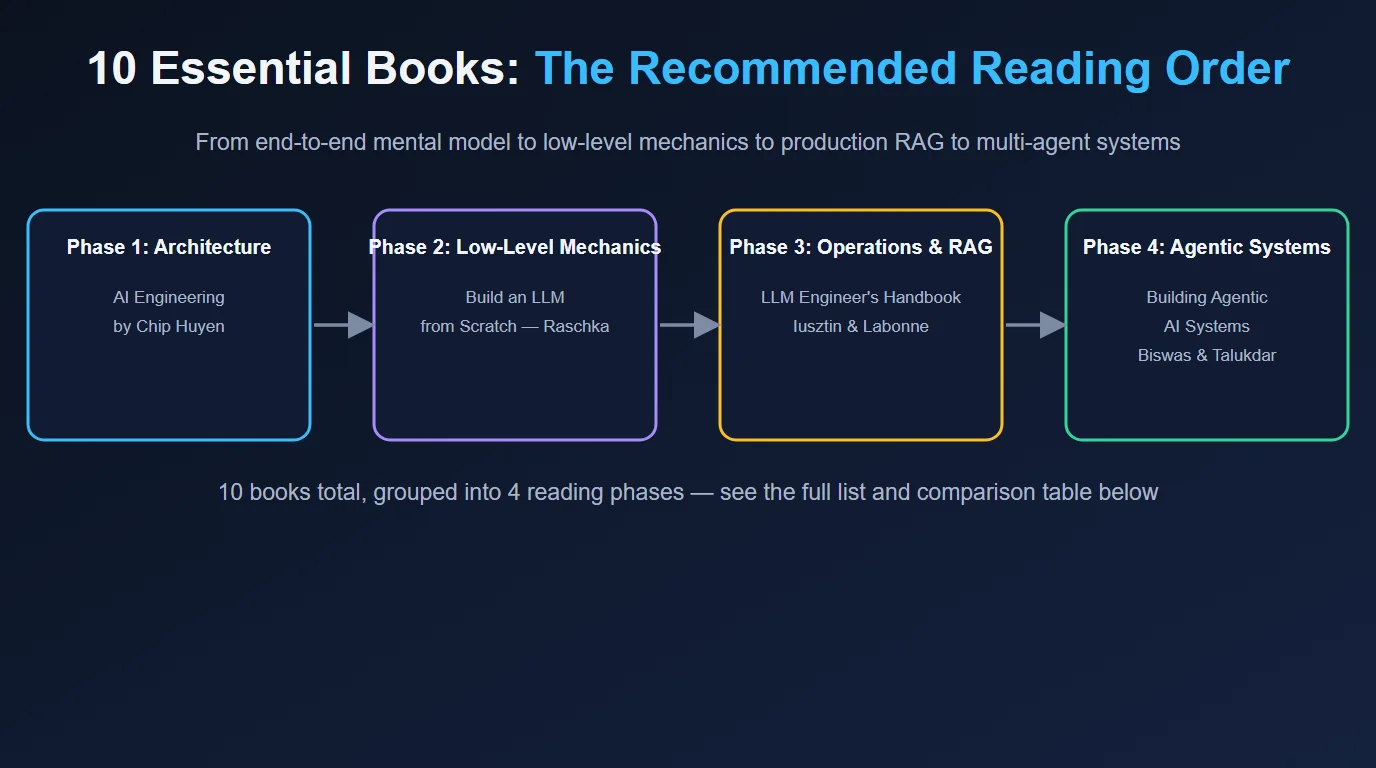
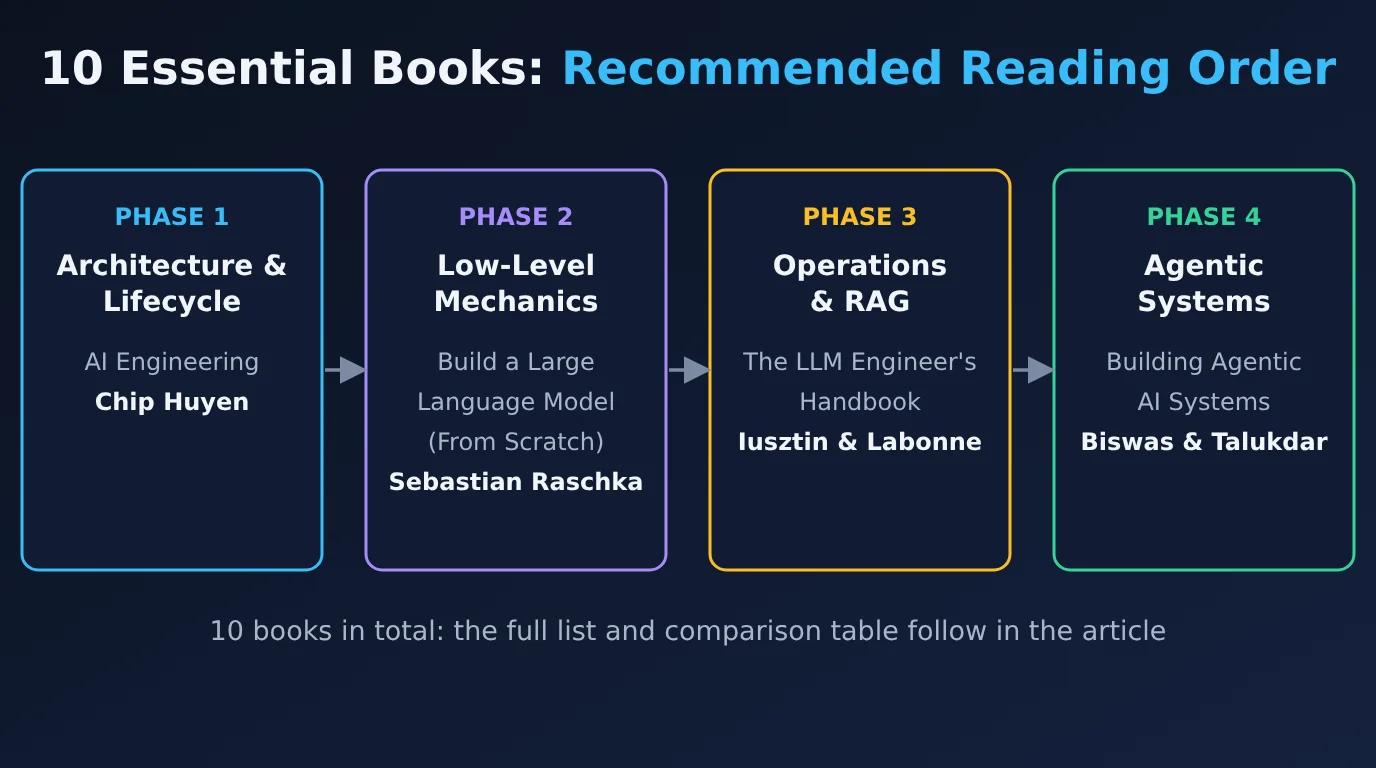
Redraw books, NeXDM and zero-trust covers with legible type; remove invented byte range; accurate alt text
Claude-Session: https://claude.ai/code/session_01CQNDUvrhkusfTduGm91qvn

diff --git a/design/build-covers.py b/design/build-covers.py
@@ -81,52 +81,70 @@ s += '</svg>\n'
 (OUT / 'durable_memory_architecture.svg').write_text(s, encoding='utf-8')
 
 # 4. essential AI engineering books: the recommended reading order ------------
-s = head([('10 Essential Books: ', TXT), ('The Recommended Reading Order', BLUE)])
-xs = [28, 374, 720, 1066]; w = 282
+s = head([('10 Essential Books: ', TXT), ('Recommended Reading Order', BLUE)])
+xs = [22, 366, 710, 1054]; w = 300
 phases = [
-    ('Phase 1: Architecture', ['AI Engineering', 'by Chip Huyen'], BLUE),
-    ('Phase 2: Low-Level Mechanics', ['Build an LLM', 'from Scratch — Raschka'], PURPLE),
-    ('Phase 3: Operations & RAG', ["LLM Engineer's Handbook", 'Iusztin & Labonne'], AMBER),
-    ('Phase 4: Agentic Systems', ['Building Agentic', 'AI Systems', 'Biswas & Talukdar'], GREEN),
+    ('Phase 1', 'Architecture &|Lifecycle', ['AI Engineering', 'Chip Huyen'], BLUE),
+    ('Phase 2', 'Low-Level|Mechanics', ['Build a Large', 'Language Model', '(From Scratch)', 'Sebastian Raschka'], PURPLE),
+    ('Phase 3', 'Operations|& RAG', ["The LLM Engineer's", 'Handbook', 'Iusztin & Labonne'], AMBER),
+    ('Phase 4', 'Agentic|Systems', ['Building Agentic', 'AI Systems', 'Biswas & Talukdar'], GREEN),
 ]
-for x, (t, lines, c) in zip(xs, phases):
-    s += box(x, 210, w, 230, c, t, lines, tsize=20, lsize=17)
+for x, (ph, t, lines, c) in zip(xs, phases):
+    s += f'<rect x="{x}" y="170" width="{w}" height="400" rx="16" fill="{PANEL}" stroke="{c}" stroke-width="3"/>\n'
+    s += text(x + w / 2, 225, ph.upper(), 24, c, 'middle', '700')
+    s += text(x + w / 2, 275, t.split('|')[0], 28, TXT, 'middle', '700')
+    s += text(x + w / 2, 311, t.split('|')[1], 28, TXT, 'middle', '700')
+    for k, l in enumerate(lines):
+        s += text(x + w / 2, 370 + k * 40, l, 24, SUB if k < len(lines) - 1 else TXT, 'middle', '400' if k < len(lines) - 1 else '600')
 for x in xs[:-1]:
-    s += arrow(x + w + 4, 325, x + w + 60, 325)
-s += text(688, 150, 'From end-to-end mental model to low-level mechanics to production RAG to multi-agent systems', 23, SUB, 'middle', '400')
-s += text(688, 500, '10 books total, grouped into 4 reading phases — see the full list and comparison table below', 23, SUB, 'middle', '400')
+    s += arrow(x + w + 3, 370, x + w + 40, 370)
+s += text(688, 640, '10 books in total: the full list and comparison table follow in the article', 27, SUB)
 s += '</svg>\n'
 (OUT / 'ai_books_engineering.svg').write_text(s, encoding='utf-8')
 
 # 5. NeXDM: saturating gigabit fiber with Rust + Tauri -------------------------
-s = head([('NeXDM: Saturating Gigabit Fiber with ', TXT), ('Rust + Tauri', AMBER)])
-s += box(28, 150, 1320, 110, BLUE, 'Source File (Remote URL)',
-         ['Range 0-25%          Range 26-50%          Range 51-75%          Range 76-100%'], tsize=24, lsize=20)
-s += arrow(688, 260, 688, 310)
-s += box(188, 314, 1000, 190, PURPLE, 'NeXDM Async Rust Engine (Tokio Core)',
-         ['64 concurrent HTTP Range requests (Socket 1..64)', 'Zero-copy ring buffer recycling',
-          'Non-blocking asynchronous disk flush'], tsize=24, lsize=21)
-s += arrow(688, 504, 688, 554)
-s += box(338, 558, 700, 110, GREEN, 'Local Target File (Assembled)', tsize=24)
-s += text(688, 710, '64-segment throughput · 4MB binary · 28MB idle RAM', 23, SUB, 'middle', '600')
+s = head([('NeXDM: Gigabit Fiber with ', TXT), ('Rust + Tauri', AMBER)])
+s += f'<rect x="28" y="130" width="1320" height="170" rx="16" fill="{PANEL}" stroke="{BLUE}" stroke-width="3"/>\n'
+s += text(688, 172, 'Source file (remote URL)', 30, TXT, 'middle', '700')
+for x, r in zip([100, 420, 740, 1060], ['Range 0-25%', 'Range 26-50%', 'Range 51-75%', '...']):
+    s += f'<rect x="{x}" y="198" width="240" height="68" rx="12" fill="none" stroke="#5b6b86" stroke-width="2"/>\n'
+    s += text(x + 120, 242, r, 26, SUB)
+s += arrow(688, 304, 688, 350)
+s += f'<rect x="28" y="356" width="1320" height="230" rx="16" fill="{PANEL}" stroke="{PURPLE}" stroke-width="3"/>\n'
+s += text(688, 400, 'NeXDM async Rust engine (Tokio core)', 30, TXT, 'middle', '700')
+for k, l in enumerate(['64 concurrent HTTP Range requests', 'Zero-copy ring buffer recycling', 'Non-blocking asynchronous disk flush']):
+    s += text(688, 454 + k * 44, l, 27, SUB)
+s += arrow(688, 590, 688, 636)
+s += f'<rect x="388" y="640" width="600" height="80" rx="16" fill="{PANEL}" stroke="{GREEN}" stroke-width="3"/>\n'
+s += text(688, 691, 'Local target file (assembled)', 29, TXT, 'middle', '700')
+s += text(1180, 676, '64 segments · ~4 MB binary', 22, GREEN, 'middle', '600')
+s += text(1180, 708, '~28 MB idle RAM', 22, GREEN, 'middle', '600')
 s += '</svg>\n'
 (OUT / 'rust_tauri_gigabit_network.svg').write_text(s, encoding='utf-8')
 
-# 6. zero-trust NEXUS agent blast-radius quarantine (Istio + SPIFFE) -----------
-s = head([('Quarantining NEXUS: ', TXT), ('Istio + SPIFFE', PURPLE), (' Blast-Radius Isolation', TXT)])
-s += f'<rect x="40" y="130" width="620" height="560" rx="18" fill="#101a30" stroke="{BLUE}" stroke-width="3"/>\n'
-s += text(350, 168, 'Istio Service Mesh (Amazon EKS) — mTLS STRICT', 24, BLUE, 'middle', '700')
-s += box(90, 300, 520, 220, PURPLE, 'NEXUS Agent Pod',
-         ['spiffe://cluster.local/ns/', 'ai-agent/sa/ai-agent-sa', '', 'Envoy sidecar — AuthorizationPolicy'],
-         tsize=24, lsize=21)
-s += arrow(610, 360, 700, 300, dash=False)
-s += arrow(610, 440, 700, 540, dash=False)
-s += box(740, 230, 580, 110, GREEN, 'Prometheus :9090 — ALLOW read-only GET', tsize=22)
-s += box(740, 530, 580, 110, GREEN, 'Jaeger — ALLOW read-only GET', tsize=22)
-s += box(740, 380, 580, 110, RED, 'lsd-payments namespace — DENY all TCP/HTTP', tsize=22)
-s += box(740, 650, 580, 90, RED, 'frontend namespace — DENY all TCP/HTTP', tsize=22)
-s += text(350, 610, 'Remediation requires an on-call engineer approval', 20, SUB, 'middle', '400')
-s += text(350, 635, '(Grafana Cloud IRM or Discord) — NEXUS cannot write directly', 20, SUB, 'middle', '400')
+# 6. Zero-trust: NEXUS in an Istio mesh ---------------------------------------
+s = head([('Quarantining NEXUS: ', TXT), ('Istio + SPIFFE', PURPLE), (' Isolation', TXT)])
+s = s.replace('font-size="46"', 'font-size="42"')
+s += f'<rect x="28" y="130" width="600" height="600" rx="18" fill="#0f1a30" stroke="{BLUE}" stroke-width="3"/>\n'
+s += text(328, 172, 'Istio service mesh (Amazon EKS)', 26, BLUE, 'middle', '700')
+s += text(328, 204, 'mTLS STRICT', 22, BLUE, 'middle', '600')
+s += f'<rect x="64" y="260" width="528" height="260" rx="14" fill="{PANEL}" stroke="{PURPLE}" stroke-width="3"/>\n'
+s += text(328, 306, 'NEXUS agent pod', 30, TXT, 'middle', '700')
+s += f'<text x="328" y="352" text-anchor="middle" font-size="22" fill="{SUB}" font-family="DejaVu Sans Mono,monospace">spiffe://cluster.local/ns/</text>\n'
+s += f'<text x="328" y="384" text-anchor="middle" font-size="22" fill="{SUB}" font-family="DejaVu Sans Mono,monospace">ai-agent/sa/ai-agent-sa</text>\n'
+s += f'<rect x="104" y="420" width="448" height="62" rx="10" fill="none" stroke="{PURPLE}" stroke-width="2"/>\n'
+s += text(328, 460, 'Envoy sidecar: AuthorizationPolicy', 22, TXT, 'middle', '600')
+s += text(328, 590, 'Remediation needs an on-call engineer\'s approval', 22, SUB)
+s += text(328, 622, '(Grafana Cloud IRM or Discord).', 22, SUB)
+s += text(328, 654, 'NEXUS cannot write directly.', 22, SUB)
+rows = [('Prometheus :9090', 'ALLOW: read-only GET', GREEN, True), ('lsd-payments namespace', 'DENY: all TCP/HTTP', RED, False),
+        ('Jaeger', 'ALLOW: read-only GET', GREEN, True), ('frontend namespace', 'DENY: all TCP/HTTP', RED, False)]
+for k, (t, sub, c, ok) in enumerate(rows):
+    y = 135 + k * 150
+    s += box(760, y, 588, 124, c, t, [sub], tsize=27, lsize=23)
+    dash = '' if ok else ' stroke-dasharray="9,7"'
+    mk = ' marker-end="url(#ar)"' if ok else ''
+    s += f'<line x1="596" y1="390" x2="756" y2="{y + 62}" stroke="{c}" stroke-width="3.5"{dash}{mk}/>\n'
 s += '</svg>\n'
 (OUT / 'zero_trust_istio_k8s.svg').write_text(s, encoding='utf-8')
 print('ok')

diff --git a/src/content/posts/saturating-gigabit-fiber-rust-tauri-nexdm.md b/src/content/posts/saturating-gigabit-fiber-rust-tauri-nexdm.md
@@ -5,7 +5,7 @@ date: 2026-08-25
 tags: ["Performance", "Systems", "Developer Tools"]
 tldr: "Legacy download accelerators like Internet Download Manager (IDM) struggle with outdated UI designs, 32-connection bottlenecks, and paid licenses, while Electron alternatives consume excessive RAM. NeXDM solves this by pairing a high-concurrency Rust network engine with a lightweight Tauri desktop frontend, delivering 64-parallel segment throughput with under 28 MB of idle RAM."
 image: ../../assets/images/rust_tauri_gigabit_network.webp
-imageAlt: "Diagram of the NeXDM download pipeline: a remote source file split into four byte ranges, pulled through a 64-socket async Rust Tokio engine with zero-copy buffer recycling, and assembled into a local target file"
+imageAlt: "Diagram of the NeXDM download pipeline: a remote source file split into byte ranges, pulled through an async Rust Tokio engine making 64 concurrent range requests with zero-copy ring buffer recycling, and assembled into a local target file"
 ---
 
 ## The Bandwidth Gap: Why Single TCP Streams Under-utilize Gigabit Fiber

diff --git a/src/content/posts/zero-trust-ai-agents-istio-kubernetes.md b/src/content/posts/zero-trust-ai-agents-istio-kubernetes.md
@@ -5,7 +5,7 @@ date: 2026-08-25
 tags: ["AI Agents", "Cloud", "Containers"]
 tldr: "Autonomous AIOps agents must never be granted unrestricted Kubernetes cluster privileges. By embedding the NEXUS operations agent inside an Istio service mesh with SPIFFE identities, strict mutual TLS, and granular sidecar AuthorizationPolicies, platform teams enable real-time telemetry diagnosis while physically blocking the agent from touching production application pods."
 image: ../../assets/images/zero_trust_istio_k8s.webp
-imageAlt: "Zero trust AI agent security in Istio and Kubernetes architecture diagram"
+imageAlt: "The NEXUS agent pod in an Istio mesh on Amazon EKS with a SPIFFE identity: read-only GET allowed to Prometheus and Jaeger, all traffic denied to the lsd-payments and frontend namespaces"
 ---
 
 ## Why Granting kubectl Permissions to LLMs Is a Critical Threat

diff --git a/docs/image-audit.md b/docs/image-audit.md
@@ -70,3 +70,5 @@ regeneration, since a wrong fix could just encode the same error differently:
   regeneration candidates: **vectorized-payment-aging-pipeline-python** (wrong library),
   **streaming-io-lessons-from-acm-icpc** (invented tech not in the article),
   **durable-memory-vector-databases** (leaked AI-prompt text).
+
+> **Second review (2026-10-30):** the three covers from the follow-up above were redrawn again with larger type (text was 11-14px, which renders at about 6px at article width) and one invented detail removed (a fourth 76-100% byte range the NeXDM article does not show). Alt texts now describe what each image shows.
